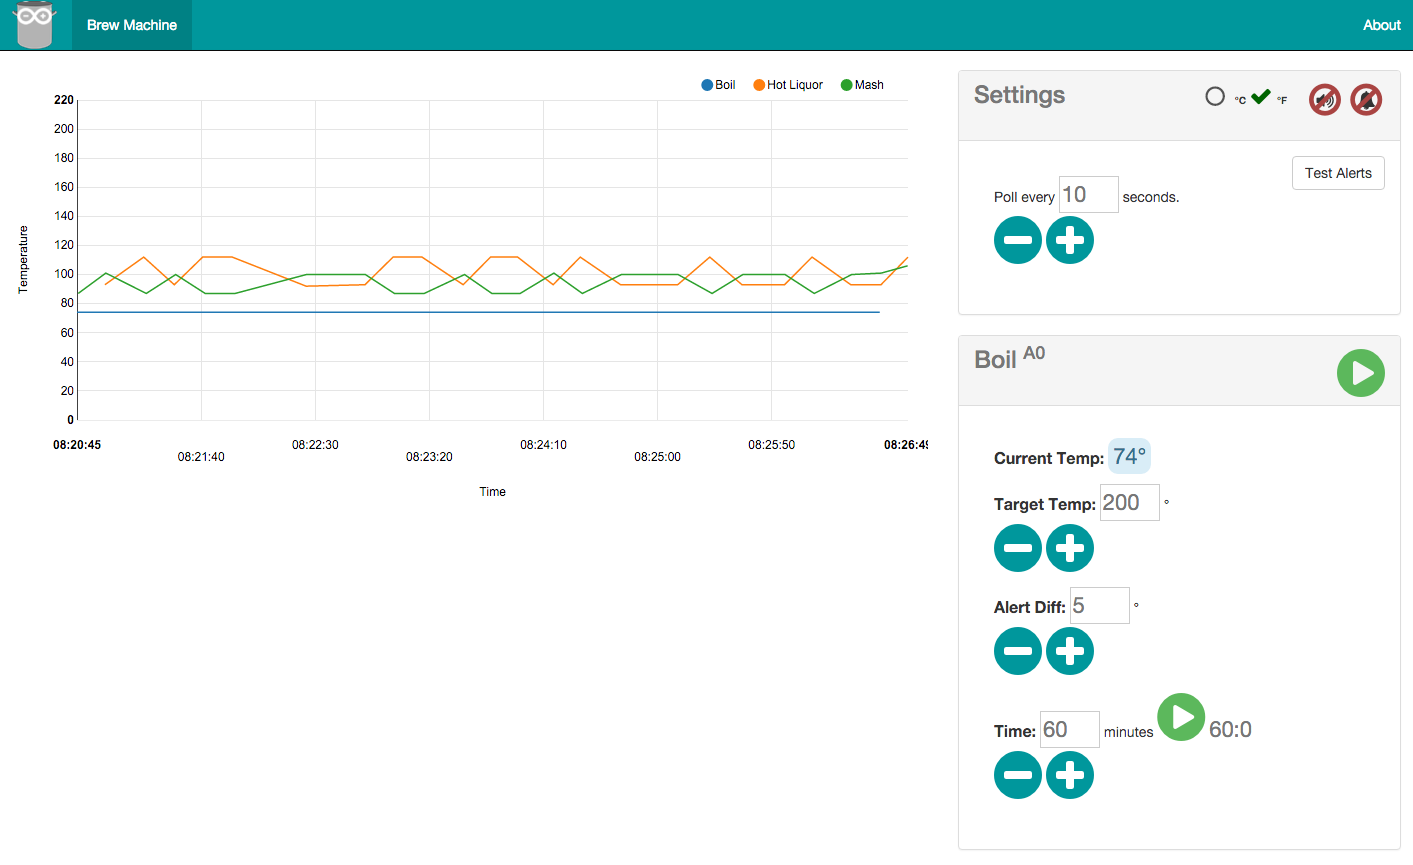
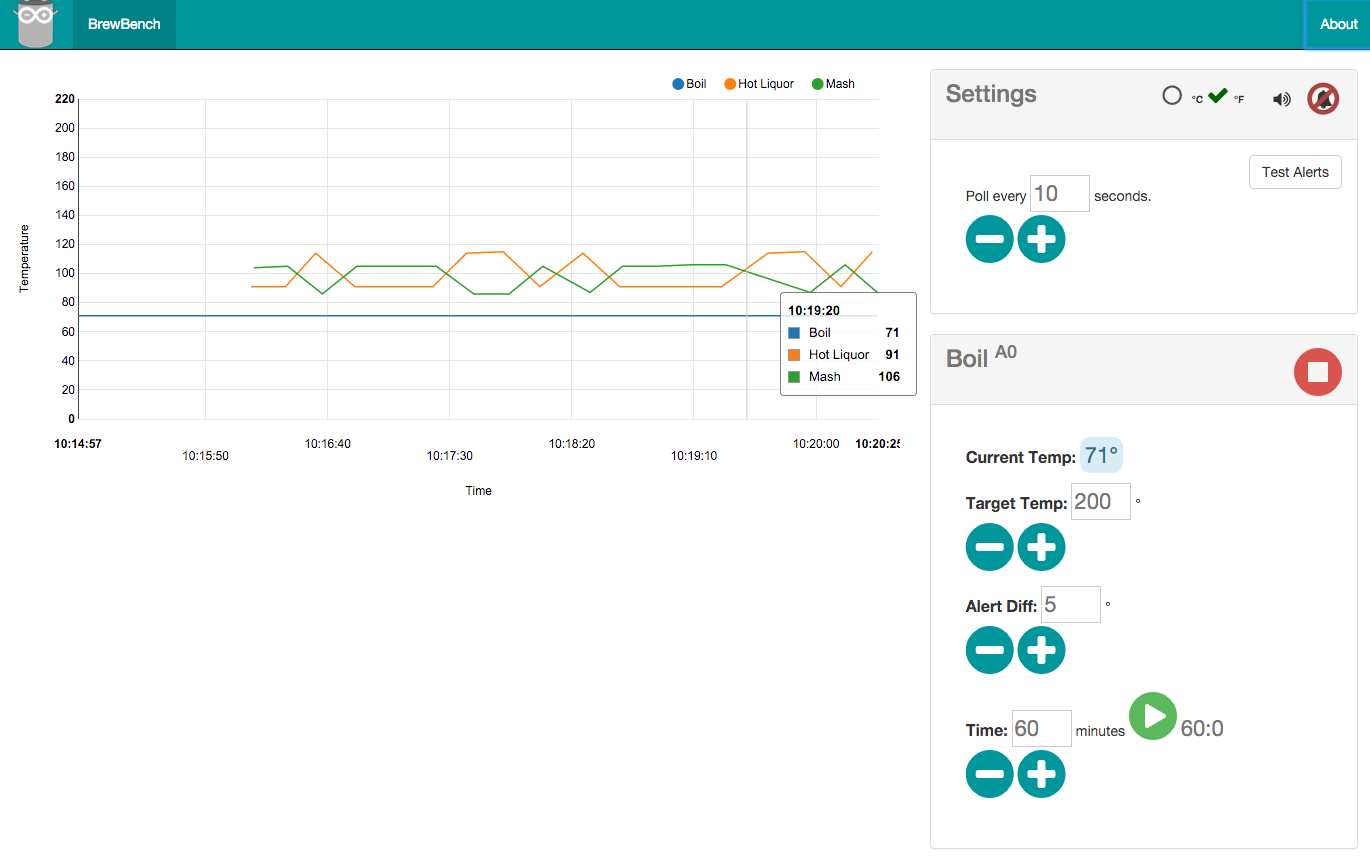
Updated screenshot

diff --git a/views/about.html b/views/about.html
@@ -5,7 +5,7 @@
       <div class="modal-header">
         <button type="button" class="close" data-dismiss="modal"><span aria-hidden="true">&times;</span></button>
         <h4 class="modal-title">BrewBench</h4>
-        <img src="img/brewbench.png" class="pull-right"/>
+        <img src="img/brewbench-logo.png" class="pull-right"/>
       </div>
       <div class="modal-body">
         BrewBench is an Arduino Yun brew monitor Developed by <a href="http://www.andrewvantassel.com" target="_blank">Andrew Van Tassel</a> and <a href="http://www.leekendrick.info" target="_blank">Lee Kendrick</a>.

diff --git a/views/header.html b/views/header.html
@@ -2,7 +2,7 @@
   <div class="container-fluid">
      <div class="navbar-header">
         <a class="navbar-brand" ui-sref="home()">
-          <img src="img/brewbench-45.png"/>
+          <img src="img/brewbench-logo-45.png"/>
         </a>
     </div>
     <div class="collapse navbar-collapse">
